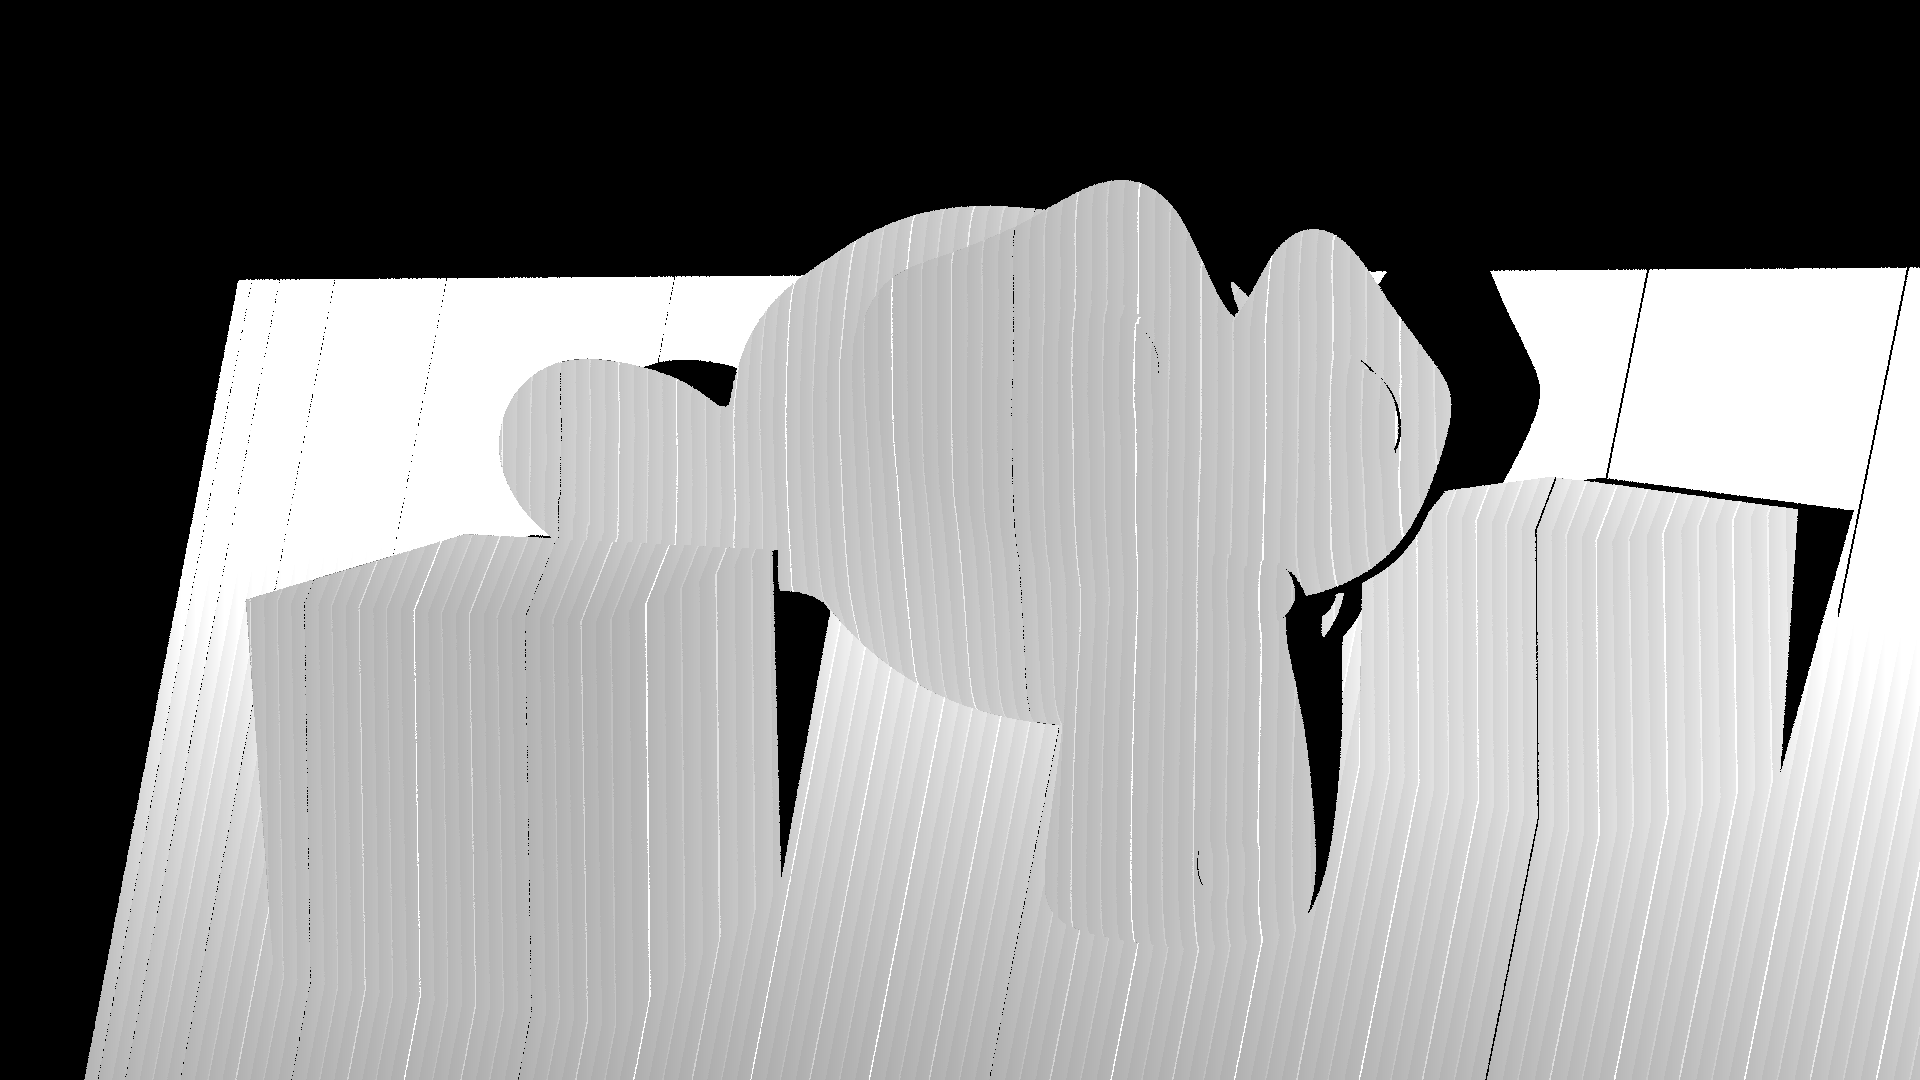
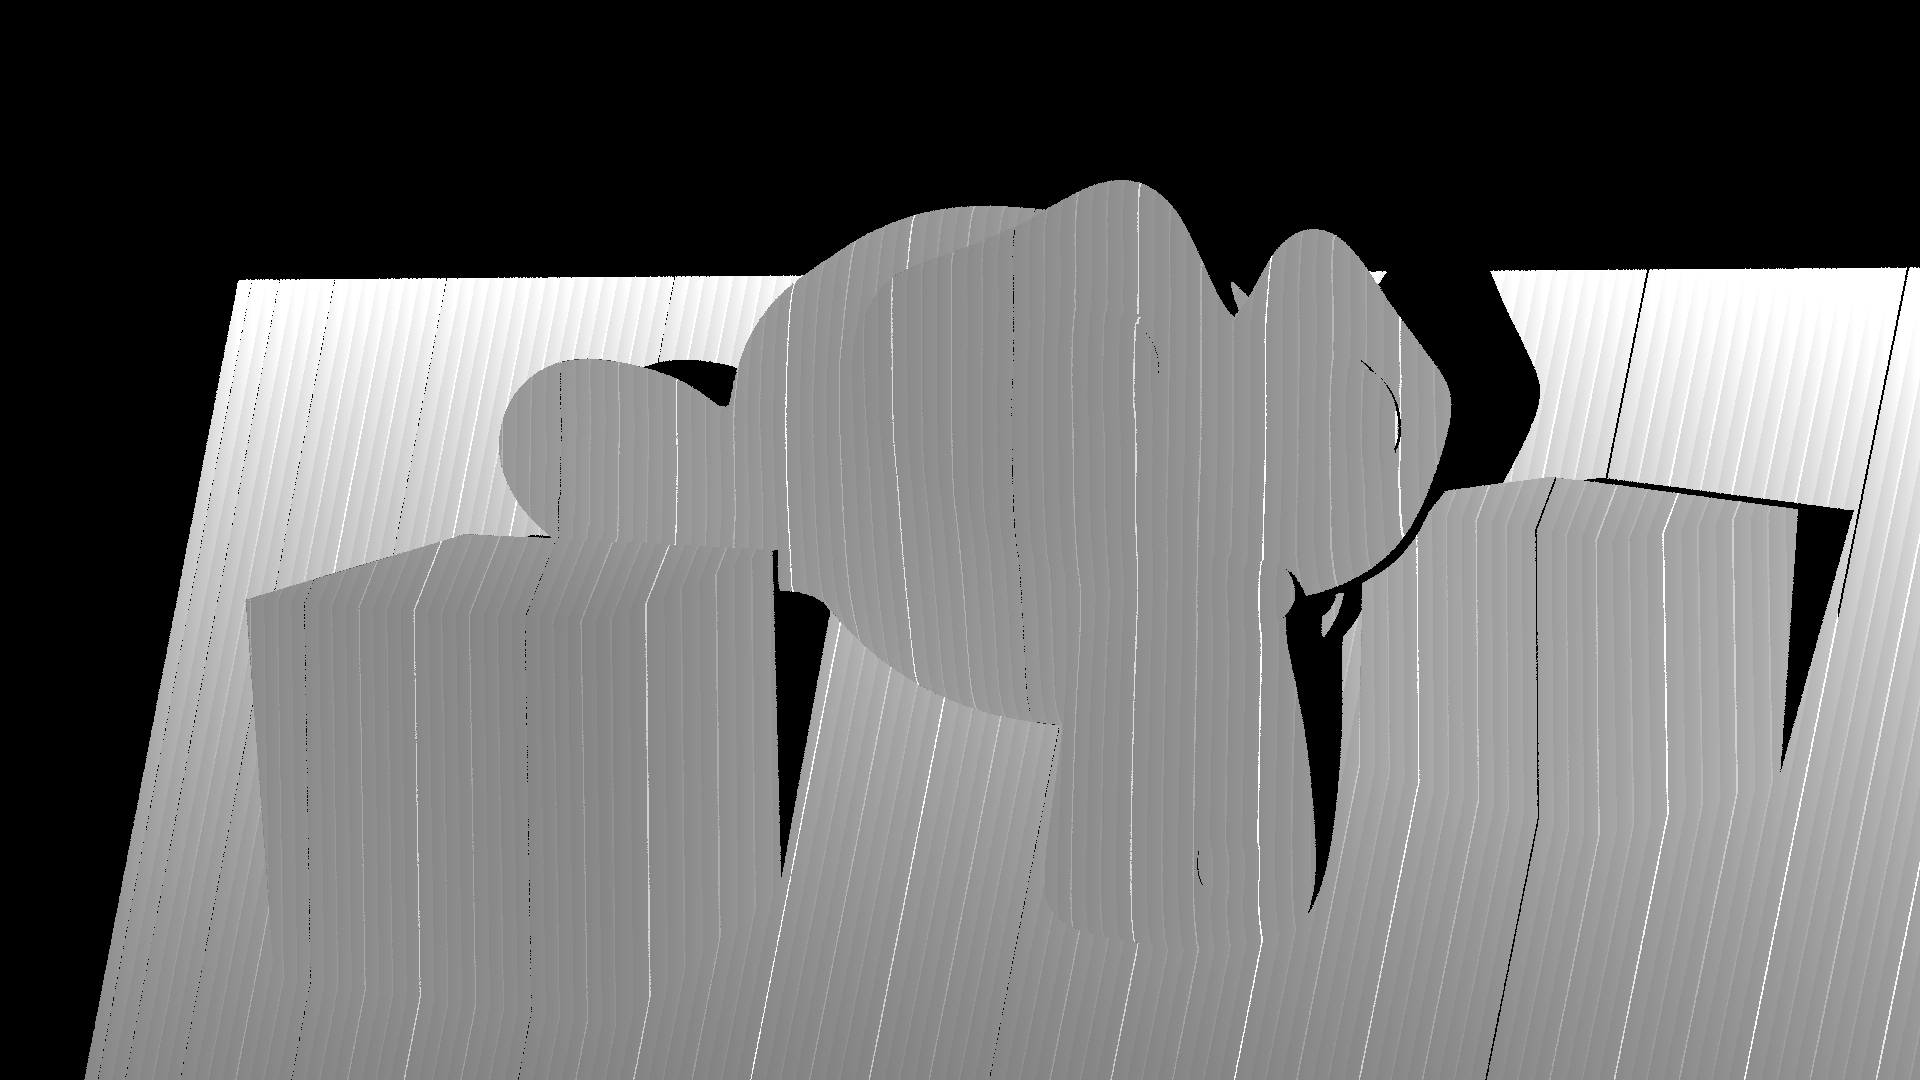
Fix depth generation

diff --git a/structured_light/dragly_testing/cpp/generateDepthImg.cpp b/structured_light/dragly_testing/cpp/generateDepthImg.cpp
@@ -120,7 +120,7 @@ int main(int argc, char **argv)
     intersection = intersection / intersection(2);
     intersection = intersection * (input(x, y) > 0);
 
-    auto depth = -intersection(1) / 3.0f * 255.0f;
+    auto depth = -intersection(1) / 4.0f * 255.0f;
     //cout << depth << endl;
 
     Func output;

diff --git a/structured_light/dragly_testing/load_png.py b/structured_light/dragly_testing/load_png.py
@@ -13,5 +13,6 @@ def show_image(img):
 #proj_x_img[proj_x_img>3] = 0
 #show_image(proj_x_img)
 
-depth_img = cv2.imread("cpp/projector-x.png", cv2.IMREAD_GRAYSCALE)
+depth_img = cv2.imread("cpp/depth_img.png", cv2.IMREAD_GRAYSCALE)
 print(np.amax(depth_img))
+show_image(depth_img)
